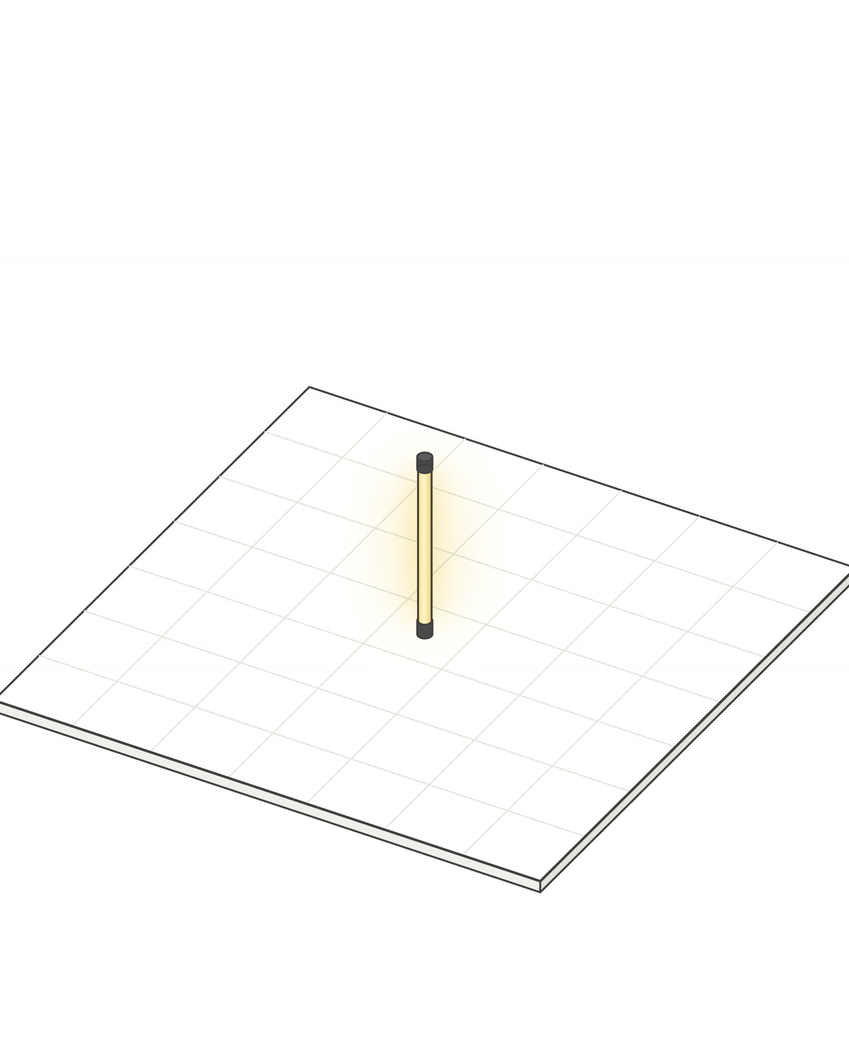
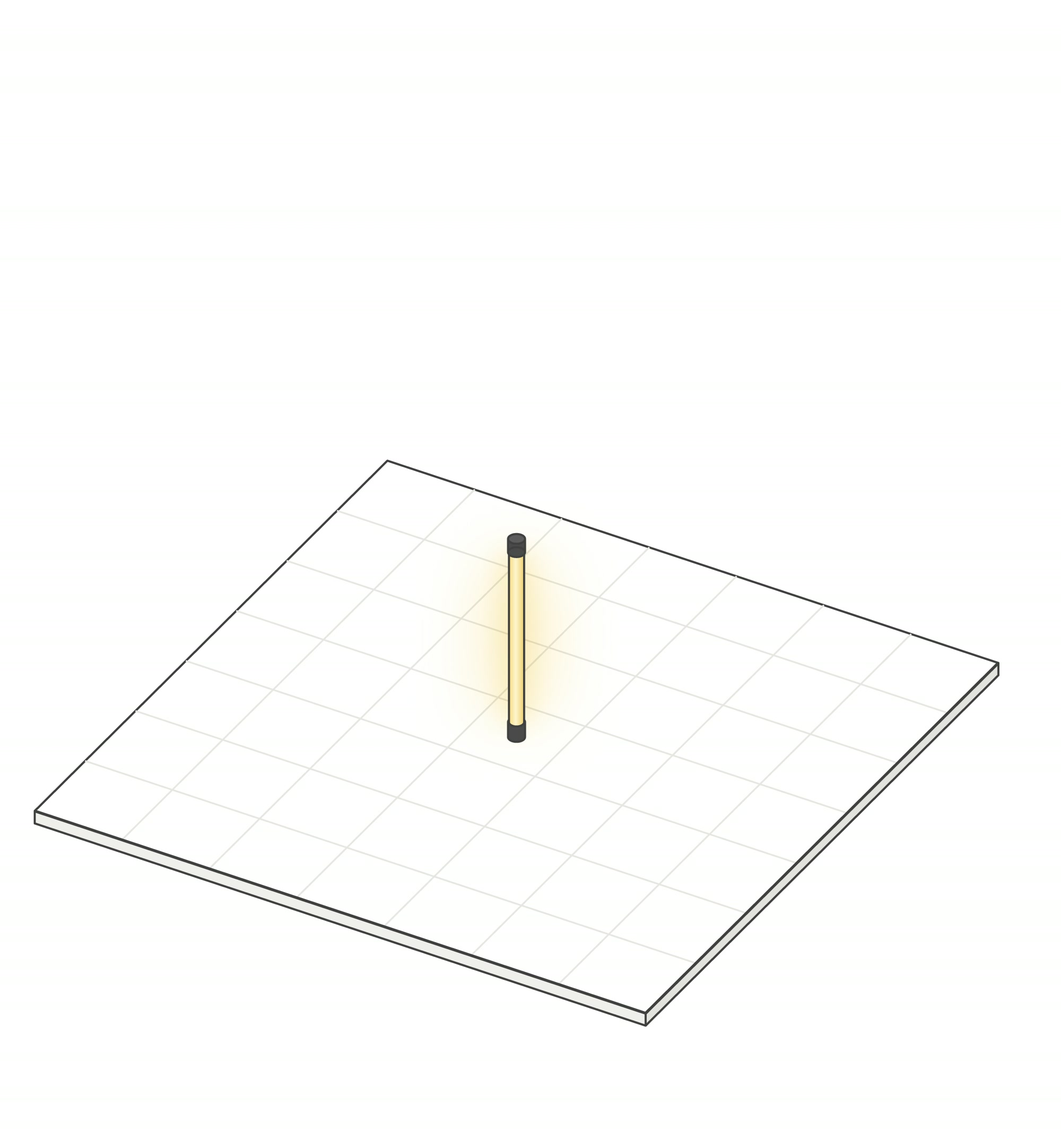
핀 #173–177 (SMART PIXEL): Point·Line·Volume 다섯 단계를 원본 03_frame.ai 벡터에서 1100ppi로 다시 뽑아 바닥판이 잘리지 않게(#173), Gathering Rule 장면 0.86배(#174), 빛 시뮬레이션의 졸라맨을 원본 일러스트 사람으로(#175)·폭 76%(#176), A Night 마지막 23:00 장면 삭제(#177)

diff --git a/assets/js/data.js b/assets/js/data.js
@@ -1610,7 +1610,7 @@ const SITE = {
         heading: "Point, Line, Volume", big: true, cols: 3, // 핀 #153: 세 장면을 한 줄에
         text: "One column becomes a gate frame, a gate, a corridor and a room — scroll through the steps. The same ten standard parts, about 2,300 pieces in all, are counted for the Daerim 2-dong pilot: 620 sockets, 682 columns, 656 lintels, 280 roof panels. Below, the three gestures drawn at the same scale on a 12 × 12 m plot.",
         // 핀 #140: 다섯 단계 시뮬레이션 + 세 장면을 따로 크게(원본 03_frame.ai, 글자·지시선 없이), 치수·설명은 사이트 글자
-        seq: {"kind":"frames","fade":true,"r":0.8085,"k":0.9,"steps":[{"src":"assets/img/smart-pixel/plv-1.jpg","t":"Column","s":"one pixel","d":"A socket set in the paving, one lit column, a head node on top — the smallest piece of the kit, on a 2.5 m grid.","k":[["In the pilot","682 columns"],["Sockets","620"]],"tags":[[3,5,"Point","","w"]]},{"src":"assets/img/smart-pixel/plv-2.jpg","t":"Gate frame","s":"+ lintel","d":"A lintel slides over two head nodes and two columns become a frame. 3.5 m across a gate, 2.5 m everywhere else.","k":[["Lintels","656"]],"tags":[[3,5,"Line","","w"]]},{"src":"assets/img/smart-pixel/plv-3.jpg","t":"Gate","s":"+ second tier","d":"A second tier stands on the head nodes: a portal 4.96 m high at the mouth of a deep lane.","k":[["Gates","11"],["Each","4 sockets · 8 columns · 6 lintels"]],"tags":[[3,5,"Line","","w"]]},{"src":"assets/img/smart-pixel/plv-4.jpg","t":"Corridor","s":"+ roof panels","d":"Two rows of frames carry roof panels over the stalls: 335 m along the market street. Seven lane lines (662 m) use the same frame without a roof.","k":[["Sockets · columns","270 · 270"],["Lintels · roof panels","268 · 268"]],"tags":[[3,5,"Line","","w"]]},{"src":"assets/img/smart-pixel/plv-5.jpg","t":"Room","s":"2 × 2 cells × 2 tiers","d":"Four cells on two tiers, with a grating floor, a mesh screen and guards: a small temporary building at a route node.","k":[["Rooms","3"],["Each","9 sockets · 15 columns · 19 lintels · 4 roof panels"],["Gratings · mesh · guards","2 · 2 · 4"]],"tags":[[3,5,"Volume","","w"]]}]},
+        seq: {"kind":"frames","fade":true,"r":0.9381,"k":0.9,"steps":[{"src":"assets/img/smart-pixel/plv-1.jpg","t":"Column","s":"one pixel","d":"A socket set in the paving, one lit column, a head node on top — the smallest piece of the kit, on a 2.5 m grid.","k":[["In the pilot","682 columns"],["Sockets","620"]],"tags":[[3,5,"Point","","w"]]},{"src":"assets/img/smart-pixel/plv-2.jpg","t":"Gate frame","s":"+ lintel","d":"A lintel slides over two head nodes and two columns become a frame. 3.5 m across a gate, 2.5 m everywhere else.","k":[["Lintels","656"]],"tags":[[3,5,"Line","","w"]]},{"src":"assets/img/smart-pixel/plv-3.jpg","t":"Gate","s":"+ second tier","d":"A second tier stands on the head nodes: a portal 4.96 m high at the mouth of a deep lane.","k":[["Gates","11"],["Each","4 sockets · 8 columns · 6 lintels"]],"tags":[[3,5,"Line","","w"]]},{"src":"assets/img/smart-pixel/plv-4.jpg","t":"Corridor","s":"+ roof panels","d":"Two rows of frames carry roof panels over the stalls: 335 m along the market street. Seven lane lines (662 m) use the same frame without a roof.","k":[["Sockets · columns","270 · 270"],["Lintels · roof panels","268 · 268"]],"tags":[[3,5,"Line","","w"]]},{"src":"assets/img/smart-pixel/plv-5.jpg","t":"Room","s":"2 × 2 cells × 2 tiers","d":"Four cells on two tiers, with a grating floor, a mesh screen and guards: a small temporary building at a route node.","k":[["Rooms","3"],["Each","9 sockets · 15 columns · 19 lintels · 4 roof panels"],["Gratings · mesh · guards","2 · 2 · 4"]],"tags":[[3,5,"Volume","","w"]]}]},
         images: [{"src":"assets/img/smart-pixel/gesture-gate.jpg","r":1.0787,"tags":[[57.5,70.6,"4.96 m","",""],[36.5,79.3,"3.5 m c/c","",""],[48.3,86.7,"street","","m"]],"notes":[["01","Gate","Two piers on the pavement, 0.75 m in from the lane walls, joined at 4.96 m. Keeps 3.3 m clear for deliveries and fire access; carries the lane name, a bench and an SOS button."]]},{"src":"assets/img/smart-pixel/gesture-corr.jpg","r":1.0787,"tags":[[97.3,78.7,"3.0 m open to the sky","r",""],[15.4,81.6,"2.5 m","",""],[99,83.8,"8.0 m between shopfronts","r",""],[36.5,84.4,"near-side shopfront, cut away","","m"]],"notes":[["02","Corridor","Two colonnades 5.5 m apart replace the patchwork awnings. Panels shade the stalls by day; after closing at 20:30 the lintels light the 8 m street, 3 m of it open to the sky."]]},{"src":"assets/img/smart-pixel/gesture-room.jpg","r":1.0787,"tags":[[61.7,70.3,"4.96 m","",""],[39.2,78,"5.0 m","",""],[44.4,88.2,"pocket park","","m"]],"notes":[["03","Room","2 × 2 cells on two tiers: a table below, a lit lantern above with the mesh screen. A temporary building (max. 3 years, renewable) — the neighbourhood can keep it, move it or return it."]]}]
       },
       {
@@ -1618,7 +1618,7 @@ const SITE = {
         text: "Light is switched on only by the people who are there. The number of people sets the size of the space — scroll from nobody to a group of four: the plan on the left, the same 16 pixels on the right, and below what is lit, who it needs and when it runs. Every mode keeps the light at residents' windows at or below 10 lx, the limit for residential zones; when everyone leaves, or after 23:00, it falls back to the default.",
         // 핀 #152: 평면(원본 05_program) + 16기둥 엑소노를 한 장면에, Four Modes 사양 표를 단계마다
         images: [],
-        seq: {"kind":"frames","fade":true,"below":true,"r":2.2143,"steps":[{"src":"assets/img/smart-pixel/rule-0.jpg","t":"00 Default","s":"CPTED state · nobody gathered","d":"Runs by itself from dusk to dawn: every pixel low, rising to 100 % as you pass. Used for the walk home from the station, a lit and watched corner at 2 am, and SOS — the cluster flashes.","k":[["People","none: runs by itself"],["Pixels lit","all, low"],["Output","20 % → 100 % as you pass"],["Colour","2700 K warm white"],["Sensors","radar in the column head"],["Alarm","flashes on an Ansimi app SOS"],["Runs","dusk to dawn"]],"tags":[[1.6,4,"Plan","","m"],[38.3,4,"Axonometric — 16 pixels, 2.5 m grid","","m"],[45.9,80.5,"2.5 m","c",""]]},{"src":"assets/img/smart-pixel/rule-1.jpg","t":"01 Column","s":"point · 1 person","d":"One person checks in and the pixel next to them lights up. For waiting for someone, a short phone-free talk, walking the dog.","k":[["People","1, checked in on site"],["Pixels lit","1, next to you"],["Output","100 %"],["Colour","2700–4000 K, user set"],["Check-in","Bluetooth, within 3 m"],["Hold","while you stay, 10 min after"],["Runs","18:00–24:00"]],"tags":[[1.6,4,"Plan","","m"],[38.3,4,"Axonometric — 16 pixels, 2.5 m grid","","m"]]},{"src":"assets/img/smart-pixel/rule-2.jpg","t":"02 Wall","s":"line · 2 people","d":"Two neighbouring pixels pull a mesh screen between them. A neighbourhood film night, kids' drawings on the screen, a quiet backdrop for a stall.","k":[["People","2+, at neighbouring pixels"],["Pixels lit","2 + mesh screen"],["Screen","2.35 × 1.90 m, pulled by hand"],["Image","edge-lit, or projector in head"],["Set-up","unroll, clip to the next column"],["Sound","none"],["Runs","18:00–22:00"]],"tags":[[1.6,4,"Plan","","m"],[38.3,4,"Axonometric — 16 pixels, 2.5 m grid","","m"]]},{"src":"assets/img/smart-pixel/rule-3.jpg","t":"03 Space","s":"volume · 4 people","d":"Four corners of a cell light up under a string-light canopy, with a table and stools from the furniture box. A neighbour dinner, a study circle, the night-market table.","k":[["People","4+, one booking in the app"],["Pixels lit","4 corners of a cell"],["Canopy","2.5 × 2.5 m string lights, H 2.4 m"],["Furniture","box: 1 table, 4 stools"],["Set-up","15 min, by the group"],["Return","pack the box to sign out"],["Runs","18:00–22:00, Fri–Sat to 23:00"]],"tags":[[1.6,4,"Plan","","m"],[38.3,4,"Axonometric — 16 pixels, 2.5 m grid","","m"]]}]}
+        seq: {"kind":"frames","fade":true,"below":true,"k":0.86,"r":2.2143,"steps":[{"src":"assets/img/smart-pixel/rule-0.jpg","t":"00 Default","s":"CPTED state · nobody gathered","d":"Runs by itself from dusk to dawn: every pixel low, rising to 100 % as you pass. Used for the walk home from the station, a lit and watched corner at 2 am, and SOS — the cluster flashes.","k":[["People","none: runs by itself"],["Pixels lit","all, low"],["Output","20 % → 100 % as you pass"],["Colour","2700 K warm white"],["Sensors","radar in the column head"],["Alarm","flashes on an Ansimi app SOS"],["Runs","dusk to dawn"]],"tags":[[1.6,4,"Plan","","m"],[38.3,4,"Axonometric — 16 pixels, 2.5 m grid","","m"],[45.9,80.5,"2.5 m","c",""]]},{"src":"assets/img/smart-pixel/rule-1.jpg","t":"01 Column","s":"point · 1 person","d":"One person checks in and the pixel next to them lights up. For waiting for someone, a short phone-free talk, walking the dog.","k":[["People","1, checked in on site"],["Pixels lit","1, next to you"],["Output","100 %"],["Colour","2700–4000 K, user set"],["Check-in","Bluetooth, within 3 m"],["Hold","while you stay, 10 min after"],["Runs","18:00–24:00"]],"tags":[[1.6,4,"Plan","","m"],[38.3,4,"Axonometric — 16 pixels, 2.5 m grid","","m"]]},{"src":"assets/img/smart-pixel/rule-2.jpg","t":"02 Wall","s":"line · 2 people","d":"Two neighbouring pixels pull a mesh screen between them. A neighbourhood film night, kids' drawings on the screen, a quiet backdrop for a stall.","k":[["People","2+, at neighbouring pixels"],["Pixels lit","2 + mesh screen"],["Screen","2.35 × 1.90 m, pulled by hand"],["Image","edge-lit, or projector in head"],["Set-up","unroll, clip to the next column"],["Sound","none"],["Runs","18:00–22:00"]],"tags":[[1.6,4,"Plan","","m"],[38.3,4,"Axonometric — 16 pixels, 2.5 m grid","","m"]]},{"src":"assets/img/smart-pixel/rule-3.jpg","t":"03 Space","s":"volume · 4 people","d":"Four corners of a cell light up under a string-light canopy, with a table and stools from the furniture box. A neighbour dinner, a study circle, the night-market table.","k":[["People","4+, one booking in the app"],["Pixels lit","4 corners of a cell"],["Canopy","2.5 × 2.5 m string lights, H 2.4 m"],["Furniture","box: 1 table, 4 stools"],["Set-up","15 min, by the group"],["Return","pack the box to sign out"],["Runs","18:00–22:00, Fri–Sat to 23:00"]],"tags":[[1.6,4,"Plan","","m"],[38.3,4,"Axonometric — 16 pixels, 2.5 m grid","","m"]]}]}
       },
       {
         heading: "Under the Corridor at 21:00", big: true,
@@ -1656,7 +1656,7 @@ const SITE = {
         stack: true,
         // 핀 #172: 원본 12_app.ai에서 글자 없이 뽑고 글은 모두 사이트 글자로, 네 가지 쓰임은 단계 장면 + 빛 시뮬레이션(church.js pixel)
         seq: {"kind":"frames","fade":true,"below":true,"r":2.3471,"steps":[{"src":"assets/img/smart-pixel/app-way-1.jpg","t":"Walk past","s":"No phone, no sign-in. The radar sees a pass, not a face.","d":"The radar in each head watches the lane, 6 m each way, ±60°. The pixel you pass goes to 100 %; the next ones each way go to 60 %. The bright patch walks with you, one pixel ahead. 40 s after the last pass it falls back to 20 %, warm 2700 K.","k":[["Trigger","movement in the radar field"],["Holds","40 s after the last pass"],["Hours","dusk to dawn"]],"tags":[[2.38,11.94,"22:10","",""],[4.91,29.36,"22:10","","b"],[8.26,36.74,"Friday","",""],[9.9,55.89,"no app, no alert\nthe phone stays\nin the pocket","c","nl"],[32.59,34.32,"20 %","",""],[47.11,34.32,"60 %","",""],[61.32,34.32,"100 %","",""],[76.16,34.32,"60 %","",""],[90.69,34.32,"20 %","",""],[82.45,57.15,"radar, 6 m","",""]]},{"src":"assets/img/smart-pixel/app-way-2.jpg","t":"Check in","s":"One tap in the app, within 3 m: for a wait, a slow walk, a dog.","d":"Open the app beside a pixel; Bluetooth finds its head within 3 m. Tap Stay lit: the pixel next to you goes to 100 %, only that one. Pick the colour between 2700 and 4000 K, if you like. It holds while the phone stays within 3 m, and 10 min after.","k":[["Trigger","a tap in the app, nothing to sign"],["Holds","while you stay, 10 min after"],["Hours","18:00 – 24:00"]],"tags":[[2.38,11.94,"22:10","",""],[1.58,17.83,"Pixel","","w"],[12.43,18.18,"anonymous","",""],[1.58,28.2,"G1-07 · Digital-ro 54-gil\n2.1 m away, Bluetooth","","nl"],[7.85,52.77,"Stay lit","",""],[1.58,65.25,"Colour","",""],[1.58,73.97,"2700 K","",""],[19.6,73.97,"4000 K","r",""],[1.58,79.5,"Hold","",""],[6.76,79.55,"while I'm here + 10 min","",""],[6.81,85.81,"Check out","",""],[36.55,34.32,"20 %","",""],[61.32,34.32,"100 %","",""],[86.73,34.32,"20 %","",""],[83.63,44.92,"Bluetooth, 3 m","",""]]},{"src":"assets/img/smart-pixel/app-way-3.jpg","t":"Gather","s":"Two checked in side by side open the wall; four with a booking, the room.","d":"Wall: two people checked in at neighbouring pixels pull the 2.35 × 1.90 m screen. Room: one booking for four or more lights the four corners of a cell and the canopy. The group opens the box — 1 table, 4 stools — and sets up in about 15 min. Packing the box signs the room out; from 23:00 only the walk-past light runs.","k":[["Trigger","2 check-ins, or 1 booking"],["Holds","the booking; packing ends it"],["Hours","18:00 – 22:00, Fri–Sat to 23:00"]],"tags":[[2.38,11.94,"19:00","",""],[1.58,17.83,"Book","","w"],[11.04,18.18,"R2 crossroads","",""],[4.51,27.98,"Wall","",""],[12.32,27.98,"Room","",""],[2.43,32.17,"2+ checked in","",""],[11.39,32.17,"4+, booked","",""],[1.58,41.07,"Cell","",""],[10.83,41.07,"B, 2.5 × 2.5 m","",""],[1.58,47.27,"Day","",""],[14.95,47.27,"Friday","",""],[1.58,53.47,"Time","",""],[11.25,53.47,"19:00 – 21:00","",""],[1.58,59.67,"People","",""],[15.37,59.67,"− 4 +","",""],[1.58,65.87,"Box","",""],[10,65.87,"1 table, 4 stools","",""],[1.58,75.1,"18:00 – 22:00, Fri–Sat to 23:00\npack the box to sign out","","nl"],[8.36,85.81,"Book","","i"],[32.36,34.32,"wall","",""],[48.86,34.32,"wall","",""],[64.95,34.32,"room","",""],[81.46,34.32,"room","",""],[86.36,66.94,"box","",""]]},{"src":"assets/img/smart-pixel/app-way-4.jpg","t":"Call for help","s":"One press on the gate sign, or SOS in Seoul's Ansimi app.","d":"Press SOS on the gate sign (under a flap), or hold SOS in the Ansimi app. The gate and its cluster flash once a second; the lane line goes to 100 %. A call goes to 112 and to the Daerim 2-dong police box, with the gate number. The flash stops when the police box clears it on site; then 20 % again.","k":[["Trigger","the sign button, or the Ansimi app"],["Reaches","112 and the police box"],["Hours","day and night; flash after dusk"]],"tags":[[2.38,11.94,"22:40","",""],[1.58,17.83,"Ansimi","","w"],[15.4,18.18,"Seoul","",""],[7.57,39.73,"SOS","","b"],[7.8,56.57,"hold 3 s","",""],[3.7,75.17,"Gate G1 flashing\nLane line at 100 %\nCall to 112\nPolice box alerted\nCall back to this phone","","nl"],[70.14,28.18,"a window opens","",""],[35.48,34.32,"gate","",""],[51.99,34.32,"gate","",""],[72.5,34.32,"lane","",""],[39.93,44.42,"G1 54-GIL","",""]]}]},
-        images: [{"sim":"pixel","caption":"The four ways, live — the lane lights as each one runs; below, the light at one pixel over time. Pick a way, or let it cycle.","r":2.8},{"src":"assets/img/smart-pixel/app-network.jpg","caption":"What talks to what — the phone only asks; the pixel answers in light. No camera, no microphone, no account.","r":4.4057,"w":"100%","tags":[[75.91,6.31,"Seoul Ansimi app","",""],[75.91,10.74,"SOS from anywhere","",""],[10.47,18.85,"Bluetooth LE, 3 m\ntoken, hold, colour","","nl"],[29.66,18.85,"mesh, 2.5 m hops\nlevels, SOS, counts","","nl"],[51.56,18.85,"mesh\ngateway","c","nl"],[91.81,19.84,"112","",""],[66.42,21.19,"position → nearest gate","",""],[88.35,23.03,"112","","w"],[91.81,24.57,"police emergency line","",""],[66.35,30.53,"LTE\nSOS, counts, faults","c","nl"],[82.88,43.44,"call, alert\ngate no., map pin","c","nl"],[91.81,48.11,"police box","",""],[91.81,54.84,"Daerim 2-dong\ncalls back, comes","","nl"],[3.9,57.34,"your phone","",""],[19.45,57.34,"pixel head","",""],[30.73,57.34,"next pixel","",""],[41.88,57.34,"gate pixel","",""],[56.38,57.34,"sub-board","",""],[71.44,57.34,"gu office server","",""],[2.87,62.07,"the app, no account","",""],[21.35,64.06,"radar, Bluetooth,\nmesh node","c","nl"],[30.63,62.07,"passes it on","",""],[41.06,62.07,"sign, SOS button","",""],[58.33,64.06,"on the street-lamp feeder:\nLTE, astro timer, RCD","c","nl"],[74.37,64.06,"Yeongdeungpo-gu:\nbookings, faults, SOS","c","nl"],[39.23,82.66,"230 V feeder under the paving, about 58 columns a circuit","",""],[4.19,94.8,"Bluetooth","",""],[17.44,94.8,"mesh radio","",""],[30.7,94.8,"LTE, mobile network","",""],[43.95,94.8,"power","",""]]},{"src":"assets/img/smart-pixel/app-sos.jpg","caption":"SOS, second by second — from the gate sign; an app SOS joins at the gu server. Design targets for the pilot.","r":3.7069,"w":"100%","tags":[[6.02,8.47,"resident","",""],[20.19,8.47,"gate pixel","",""],[33.5,8.47,"cluster, lane line","",""],[48.88,8.47,"sub-board","",""],[63.46,8.47,"gu server","",""],[78.98,8.47,"112","",""],[92.18,8.47,"police box","",""],[12.97,15.76,"press SOS","",""],[1.12,18.34,"0 s","",""],[1.12,26.88,"0.1 s","",""],[24.47,26.88,"flash, once a second","",""],[23.39,32.83,"mesh: cluster flashes, lane to 100 %","",""],[1.12,35.41,"0.5 s","",""],[22.93,41.36,"mesh: SOS, gate G1","",""],[1.12,43.95,"1 s","",""],[54.74,49.9,"LTE: SOS, G1, 22:40","",""],[1.12,52.48,"2 s","",""],[67.01,58.43,"call with the gate no. and map pin","",""],[1.12,61.02,"3 s","",""],[66.19,66.97,"alert on the duty screen","",""],[1.12,69.55,"3 s","",""],[78.87,75.5,"call back (to the phone, if sent from the app)","",""],[1.12,78.09,"~1 min","",""],[82.29,84.03,"officer clears the SOS on the sign","",""],[1.12,86.62,"on site","",""],[25.59,92.57,"back to 20 % standby","",""],[1.12,95.16,"+40 s","",""]]},{"src":"assets/img/smart-pixel/app-screens.jpg","caption":"The rest of the app — six more screens behind the four above, one tap deep, nothing to sign in to","r":3.1555,"w":"100%","tags":[[2.46,14.45,"21:58","",""],[20,14.45,"22:00","",""],[37.54,14.45,"17:40","",""],[55.07,14.45,"20:50","",""],[72.61,14.45,"22:40","",""],[90.14,14.45,"22:41","",""],[2.03,18.8,"Smart Pixel","","w"],[19.57,18.8,"Nearby","","w"],[37.1,18.8,"Booked","","w"],[72.17,18.8,"Report","","w"],[89.71,18.8,"This phone","","w"],[8.54,19.05,"first open","",""],[26.71,19.05,"G1 lane","",""],[42.29,19.05,"R2 crossroads","",""],[79.69,19.05,"G1-07","",""],[96.1,19.05,"no sign-in","",""],[56.24,26.39,"20:50","","b"],[37.1,24.91,"Friday 19:00 – 21:00","",""],[72.17,24.91,"What is wrong?","",""],[89.71,25.43,"Token","",""],[93.8,25.43,"new every 15 min","",""],[37.1,28.17,"cell B · 4 people · 1 box","",""],[89.71,30,"On the pixel","",""],[95.22,30,"nothing kept","",""],[73.64,30.79,"Dark","",""],[77.72,30.79,"Flickering","",""],[58.3,31.83,"Friday","",""],[89.71,34.57,"Check-ins","",""],[95.24,34.57,"hourly totals","",""],[72.55,37.65,"Lens broken","",""],[78.32,37.65,"Other","",""],[6.59,41.66,"Bluetooth finds the light\nnext to you. No account,\nno name, no location history.","c","nl"],[89.71,39.15,"Bookings","",""],[93.44,39.15,"deleted at 30 days","",""],[44.43,39.79,"B","",""],[14.56,40.03,"allow","",""],[32.13,40.03,"book","",""],[49.59,40.03,"18:45","",""],[67.11,40.03,"menu","",""],[84.65,40.03,"menu","",""],[56.02,40.61,"SMART PIXEL · now","",""],[55,44.15,"R2: 10 minutes left","",""],[89.71,46.46,"Bluetooth check-in","",""],[24.18,46.52,"you · 3 m","",""],[55,48.45,"Pack the box to sign out.\nThe room dims at 21:00.","","nl"],[2.9,52.85,"walking past needs no app\nSOS works without it too\n한국어","","nl"],[73.85,50.61,"add a photo, optional","",""],[89.71,51.49,"Booking reminders","",""],[37.1,51.52,"Box code, live from 18:45","",""],[19.57,53.32,"G1-07","",""],[26.21,53.32,"2.1 m · lit","",""],[4.64,55.87,"·","",""],[5.13,55.72,"中文","",""],[6.29,55.87,"· English","",""],[98.53,56.37,"›","",""],[37.77,56.71,"4","","w"],[40.27,56.71,"1","","w"],[42.59,56.71,"7","","w"],[44.97,56.71,"2","","w"],[72.17,58.84,"The pixel has reported itself\nalready; this tells the gu what\nyou saw. Or call 120, Dasan.","","nl"],[89.71,56.52,"Language:","",""],[92.95,56.36,"한국어","",""],[19.57,57.9,"G1-08","",""],[27.06,57.9,"4.6 m","",""],[56.02,57.99,"SMART PIXEL · 18:45","",""],[55,61.52,"R2 is ready","",""],[3.7,62.09,"Allow while using","","i"],[19.57,62.47,"R2 room","",""],[23.77,62.47,"38 m · free 19:00","",""],[37.1,62.47,"Set-up","",""],[40.92,62.47,"15 min, from 18:45","",""],[55,65.82,"Box code 4172. The four\ncolumns light in turn.","","nl"],[5.24,68.49,"Not now","",""],[22.16,68.95,"Open G1-07","","i"],[39.13,68.95,"Cancel booking","",""],[75.88,68.95,"Send","","i"],[91.05,68.95,"Delete my bookings","",""],[2.9,82.87,"First open","",""],[20.43,82.87,"Nearby","",""],[37.97,82.87,"Booked","",""],[55.51,82.87,"Reminders","",""],[73.04,82.87,"Report","",""],[90.58,82.87,"This phone","",""],[1.6,82.85,"a","",""],[19.12,82.85,"b","",""],[36.68,82.85,"c","",""],[54.19,82.85,"d","",""],[71.74,82.85,"e","",""],[89.35,82.85,"f","",""],[1.16,90.76,"Asks for Bluetooth only. No\naccount, no name, no location\nhistory.","","nl"],[18.7,90.76,"The lane as it is: the pixels\nwithin 3 m are lit, the room\nup the lane is free.","","nl"],[36.23,90.76,"The cell, the hours and a\nfour-digit code for the box,\nlive 15 min before.","","nl"],[53.77,90.76,"On the lock screen: the room\nis ready; ten minutes left;\nnothing else.","","nl"],[71.3,90.76,"One tap: what is wrong. The\npixel has already told the gu\nit is dark.","","nl"],[88.84,89.16,"What is shared, for how long,\nand a button that deletes it.","","nl"]]},{"src":"assets/img/smart-pixel/app-words.jpg","caption":"The light's own words — how a pixel answers without a screen; level over time, each strip to its own scale","r":1.506,"w":"62%","tags":[[55.57,16.33,"20 → 100 % in 0.5 s; back to 20 % 40 s after the last pass","",""],[1.59,17.63,"Someone passes","",""],[55.57,26.21,"one slow breath, 1.5 s: the pixel knows it is you","",""],[1.59,27.51,"Check-in heard","",""],[55.57,36.09,"the cell's four columns light in turn, 1 s apart","",""],[1.59,37.4,"Room ready","",""],[55.57,45.97,"two slow breaths on the room's columns","",""],[1.59,47.28,"Ten minutes left","",""],[55.57,55.85,"23:00: down to 20 % over 60 s; rooms close","",""],[1.59,57.16,"Quiet hours","",""],[55.57,67.2,"the gate flashes once a second until the police box clears it","",""],[1.59,67.04,"SOS","",""],[55.57,77.08,"5 % and steady, never a flash, so it is never read as SOS; it reports itself","",""],[1.59,76.92,"Fault","",""],[55.57,85.49,"off; radar and radio listen on 0.5 W","",""],[1.59,86.8,"Day","",""],[1.59,95.37,"Dashed: the 20 % night level. All signals are warm white; nothing is coloured.","","m"],[1.59,8.74,"Signal","","m"],[23.96,8.74,"Level","","m"],[55.57,8.74,"What it means","","m"]]}]
+        images: [{"sim":"pixel","w":"76%","caption":"The four ways, live — the lane lights as each one runs; below, the light at one pixel over time. Pick a way, or let it cycle.","r":2.8},{"src":"assets/img/smart-pixel/app-network.jpg","caption":"What talks to what — the phone only asks; the pixel answers in light. No camera, no microphone, no account.","r":4.4057,"w":"100%","tags":[[75.91,6.31,"Seoul Ansimi app","",""],[75.91,10.74,"SOS from anywhere","",""],[10.47,18.85,"Bluetooth LE, 3 m\ntoken, hold, colour","","nl"],[29.66,18.85,"mesh, 2.5 m hops\nlevels, SOS, counts","","nl"],[51.56,18.85,"mesh\ngateway","c","nl"],[91.81,19.84,"112","",""],[66.42,21.19,"position → nearest gate","",""],[88.35,23.03,"112","","w"],[91.81,24.57,"police emergency line","",""],[66.35,30.53,"LTE\nSOS, counts, faults","c","nl"],[82.88,43.44,"call, alert\ngate no., map pin","c","nl"],[91.81,48.11,"police box","",""],[91.81,54.84,"Daerim 2-dong\ncalls back, comes","","nl"],[3.9,57.34,"your phone","",""],[19.45,57.34,"pixel head","",""],[30.73,57.34,"next pixel","",""],[41.88,57.34,"gate pixel","",""],[56.38,57.34,"sub-board","",""],[71.44,57.34,"gu office server","",""],[2.87,62.07,"the app, no account","",""],[21.35,64.06,"radar, Bluetooth,\nmesh node","c","nl"],[30.63,62.07,"passes it on","",""],[41.06,62.07,"sign, SOS button","",""],[58.33,64.06,"on the street-lamp feeder:\nLTE, astro timer, RCD","c","nl"],[74.37,64.06,"Yeongdeungpo-gu:\nbookings, faults, SOS","c","nl"],[39.23,82.66,"230 V feeder under the paving, about 58 columns a circuit","",""],[4.19,94.8,"Bluetooth","",""],[17.44,94.8,"mesh radio","",""],[30.7,94.8,"LTE, mobile network","",""],[43.95,94.8,"power","",""]]},{"src":"assets/img/smart-pixel/app-sos.jpg","caption":"SOS, second by second — from the gate sign; an app SOS joins at the gu server. Design targets for the pilot.","r":3.7069,"w":"100%","tags":[[6.02,8.47,"resident","",""],[20.19,8.47,"gate pixel","",""],[33.5,8.47,"cluster, lane line","",""],[48.88,8.47,"sub-board","",""],[63.46,8.47,"gu server","",""],[78.98,8.47,"112","",""],[92.18,8.47,"police box","",""],[12.97,15.76,"press SOS","",""],[1.12,18.34,"0 s","",""],[1.12,26.88,"0.1 s","",""],[24.47,26.88,"flash, once a second","",""],[23.39,32.83,"mesh: cluster flashes, lane to 100 %","",""],[1.12,35.41,"0.5 s","",""],[22.93,41.36,"mesh: SOS, gate G1","",""],[1.12,43.95,"1 s","",""],[54.74,49.9,"LTE: SOS, G1, 22:40","",""],[1.12,52.48,"2 s","",""],[67.01,58.43,"call with the gate no. and map pin","",""],[1.12,61.02,"3 s","",""],[66.19,66.97,"alert on the duty screen","",""],[1.12,69.55,"3 s","",""],[78.87,75.5,"call back (to the phone, if sent from the app)","",""],[1.12,78.09,"~1 min","",""],[82.29,84.03,"officer clears the SOS on the sign","",""],[1.12,86.62,"on site","",""],[25.59,92.57,"back to 20 % standby","",""],[1.12,95.16,"+40 s","",""]]},{"src":"assets/img/smart-pixel/app-screens.jpg","caption":"The rest of the app — six more screens behind the four above, one tap deep, nothing to sign in to","r":3.1555,"w":"100%","tags":[[2.46,14.45,"21:58","",""],[20,14.45,"22:00","",""],[37.54,14.45,"17:40","",""],[55.07,14.45,"20:50","",""],[72.61,14.45,"22:40","",""],[90.14,14.45,"22:41","",""],[2.03,18.8,"Smart Pixel","","w"],[19.57,18.8,"Nearby","","w"],[37.1,18.8,"Booked","","w"],[72.17,18.8,"Report","","w"],[89.71,18.8,"This phone","","w"],[8.54,19.05,"first open","",""],[26.71,19.05,"G1 lane","",""],[42.29,19.05,"R2 crossroads","",""],[79.69,19.05,"G1-07","",""],[96.1,19.05,"no sign-in","",""],[56.24,26.39,"20:50","","b"],[37.1,24.91,"Friday 19:00 – 21:00","",""],[72.17,24.91,"What is wrong?","",""],[89.71,25.43,"Token","",""],[93.8,25.43,"new every 15 min","",""],[37.1,28.17,"cell B · 4 people · 1 box","",""],[89.71,30,"On the pixel","",""],[95.22,30,"nothing kept","",""],[73.64,30.79,"Dark","",""],[77.72,30.79,"Flickering","",""],[58.3,31.83,"Friday","",""],[89.71,34.57,"Check-ins","",""],[95.24,34.57,"hourly totals","",""],[72.55,37.65,"Lens broken","",""],[78.32,37.65,"Other","",""],[6.59,41.66,"Bluetooth finds the light\nnext to you. No account,\nno name, no location history.","c","nl"],[89.71,39.15,"Bookings","",""],[93.44,39.15,"deleted at 30 days","",""],[44.43,39.79,"B","",""],[14.56,40.03,"allow","",""],[32.13,40.03,"book","",""],[49.59,40.03,"18:45","",""],[67.11,40.03,"menu","",""],[84.65,40.03,"menu","",""],[56.02,40.61,"SMART PIXEL · now","",""],[55,44.15,"R2: 10 minutes left","",""],[89.71,46.46,"Bluetooth check-in","",""],[24.18,46.52,"you · 3 m","",""],[55,48.45,"Pack the box to sign out.\nThe room dims at 21:00.","","nl"],[2.9,52.85,"walking past needs no app\nSOS works without it too\n한국어","","nl"],[73.85,50.61,"add a photo, optional","",""],[89.71,51.49,"Booking reminders","",""],[37.1,51.52,"Box code, live from 18:45","",""],[19.57,53.32,"G1-07","",""],[26.21,53.32,"2.1 m · lit","",""],[4.64,55.87,"·","",""],[5.13,55.72,"中文","",""],[6.29,55.87,"· English","",""],[98.53,56.37,"›","",""],[37.77,56.71,"4","","w"],[40.27,56.71,"1","","w"],[42.59,56.71,"7","","w"],[44.97,56.71,"2","","w"],[72.17,58.84,"The pixel has reported itself\nalready; this tells the gu what\nyou saw. Or call 120, Dasan.","","nl"],[89.71,56.52,"Language:","",""],[92.95,56.36,"한국어","",""],[19.57,57.9,"G1-08","",""],[27.06,57.9,"4.6 m","",""],[56.02,57.99,"SMART PIXEL · 18:45","",""],[55,61.52,"R2 is ready","",""],[3.7,62.09,"Allow while using","","i"],[19.57,62.47,"R2 room","",""],[23.77,62.47,"38 m · free 19:00","",""],[37.1,62.47,"Set-up","",""],[40.92,62.47,"15 min, from 18:45","",""],[55,65.82,"Box code 4172. The four\ncolumns light in turn.","","nl"],[5.24,68.49,"Not now","",""],[22.16,68.95,"Open G1-07","","i"],[39.13,68.95,"Cancel booking","",""],[75.88,68.95,"Send","","i"],[91.05,68.95,"Delete my bookings","",""],[2.9,82.87,"First open","",""],[20.43,82.87,"Nearby","",""],[37.97,82.87,"Booked","",""],[55.51,82.87,"Reminders","",""],[73.04,82.87,"Report","",""],[90.58,82.87,"This phone","",""],[1.6,82.85,"a","",""],[19.12,82.85,"b","",""],[36.68,82.85,"c","",""],[54.19,82.85,"d","",""],[71.74,82.85,"e","",""],[89.35,82.85,"f","",""],[1.16,90.76,"Asks for Bluetooth only. No\naccount, no name, no location\nhistory.","","nl"],[18.7,90.76,"The lane as it is: the pixels\nwithin 3 m are lit, the room\nup the lane is free.","","nl"],[36.23,90.76,"The cell, the hours and a\nfour-digit code for the box,\nlive 15 min before.","","nl"],[53.77,90.76,"On the lock screen: the room\nis ready; ten minutes left;\nnothing else.","","nl"],[71.3,90.76,"One tap: what is wrong. The\npixel has already told the gu\nit is dark.","","nl"],[88.84,89.16,"What is shared, for how long,\nand a button that deletes it.","","nl"]]},{"src":"assets/img/smart-pixel/app-words.jpg","caption":"The light's own words — how a pixel answers without a screen; level over time, each strip to its own scale","r":1.506,"w":"62%","tags":[[55.57,16.33,"20 → 100 % in 0.5 s; back to 20 % 40 s after the last pass","",""],[1.59,17.63,"Someone passes","",""],[55.57,26.21,"one slow breath, 1.5 s: the pixel knows it is you","",""],[1.59,27.51,"Check-in heard","",""],[55.57,36.09,"the cell's four columns light in turn, 1 s apart","",""],[1.59,37.4,"Room ready","",""],[55.57,45.97,"two slow breaths on the room's columns","",""],[1.59,47.28,"Ten minutes left","",""],[55.57,55.85,"23:00: down to 20 % over 60 s; rooms close","",""],[1.59,57.16,"Quiet hours","",""],[55.57,67.2,"the gate flashes once a second until the police box clears it","",""],[1.59,67.04,"SOS","",""],[55.57,77.08,"5 % and steady, never a flash, so it is never read as SOS; it reports itself","",""],[1.59,76.92,"Fault","",""],[55.57,85.49,"off; radar and radio listen on 0.5 W","",""],[1.59,86.8,"Day","",""],[1.59,95.37,"Dashed: the 20 % night level. All signals are warm white; nothing is coloured.","","m"],[1.59,8.74,"Signal","","m"],[23.96,8.74,"Level","","m"],[55.57,8.74,"What it means","","m"]]}]
       },
       {
         heading: "Two Sessions, Three Years, One Vote",
@@ -1673,7 +1673,7 @@ const SITE = {
         ]
       },
       {
-        heading: "A Night in Daerim, 18:40 to 23:00", big: true,
+        heading: "A Night in Daerim, 18:40 to 22:40", big: true, // 핀 #177: 마지막 23:00 장면 삭제
         text: "One walk home on a June weekday, through the pieces of the frame. Each scene is the same 12 × 12 m plot, the same angle, the same scale.",
         images: [],
         seq: {
@@ -1711,12 +1711,6 @@ const SITE = {
               t: "22:40",
               s: "SOS at the gate",
               d: "“One press on the sign: the gate flashed, a neighbour opened the window, the police box called back.”"
-            },
-            {
-              src: "assets/img/smart-pixel/night-6.jpg",
-              t: "23:00",
-              s: "Front door",
-              d: "“Home. Behind me the gate goes back to dim. The lane is quiet, not dark.” Back to 20 % standby 40 s after the last pass."
             }
           ]
         }

diff --git a/assets/js/church.js b/assets/js/church.js
@@ -810,7 +810,10 @@
     au.addEventListener("click", () => { auto = !auto; start = null; mark(); st.kick(); });
     mark();
     const RUN = 11, REST = 1.6; // 한 모드 11초 + 쉼 1.6초
-    const person = (g, x, y, s, c) => { g.strokeStyle = c; g.lineWidth = 1.2; g.beginPath(); g.arc(x, y - s * 0.92, s * 0.1, 0, 7); g.moveTo(x, y - s * 0.8); g.lineTo(x, y - s * 0.42); g.moveTo(x - s * 0.13, y - s * 0.68); g.lineTo(x, y - s * 0.75); g.lineTo(x + s * 0.13, y - s * 0.6); g.moveTo(x - s * 0.12, y); g.lineTo(x, y - s * 0.42); g.lineTo(x + s * 0.12, y); g.stroke(); };
+    // 사람은 원본 장면(12_app.ai)에서 오린 그림: h = 기둥 높이 대비, a = 가로/세로
+    const PP = { walk: [0.682, 0.449], dog: [0.712, 1.354], phone: [0.674, 0.574], wall: [0.712, 0.875], table: [0.555, 1.455], sos: [0.682, 1.072] }, IM = {};
+    Object.keys(PP).forEach((k) => { const im = new Image(); im.onload = () => st && st.kick(); im.src = `assets/img/smart-pixel/ppl-${k}.png`; IM[k] = im; });
+    const sprite = (g, k, cx, ground, colH, flip) => { const im = IM[k]; if (!im.complete || !im.naturalWidth) return; const h = PP[k][0] * colH, w = h * PP[k][1]; g.save(); if (flip) { g.translate(cx, 0); g.scale(-1, 1); cx = 0; } g.drawImage(im, cx - w / 2, ground - h, w, h); g.restore(); };
     const st = stage(el, (g, W, H, tt) => {
       if (start === null) start = tt;
       let e = tt - start;
@@ -823,15 +826,16 @@
       // 빛 원뿔 → 기둥 → 보 → 땅
       Ls.forEach((L, i) => { const x = xs(i), w = laneW * 0.1; g.fillStyle = warm(0.06 + 0.34 * (L - 0.2) / 0.8 + 0.04); g.beginPath(); g.moveTo(x, head + 4); g.lineTo(x - w, ground); g.lineTo(x + w, ground); g.closePath(); g.fill(); });
       if (m.wall) { const [a, b] = m.wall, on = Ls[a] > 0.9 && Ls[b] > 0.9; g.fillStyle = warm(on ? 0.35 : 0); g.fillRect(xs(a) + 4, head + colH * 0.12, xs(b) - xs(a) - 8, colH * 0.8); if (on) { g.strokeStyle = C.mix(0.25); g.lineWidth = 0.6; for (let q = xs(a) + 12; q < xs(b) - 6; q += 8) { g.beginPath(); g.moveTo(q, head + colH * 0.12); g.lineTo(q, head + colH * 0.92); g.stroke(); } } }
-      if (m.room) { const [a, b] = m.room, on = Ls[a] > 0.9; if (on) { g.strokeStyle = C.mix(0.5); g.lineWidth = 0.8; g.beginPath(); g.moveTo(xs(a), head + 6); g.quadraticCurveTo((xs(a) + xs(b)) / 2, head + colH * 0.22, xs(b), head + 6); g.stroke(); for (let q = 1; q < 8; q++) { const u = q / 8, bx = xs(a) + (xs(b) - xs(a)) * u, by = head + 6 + (colH * 0.16) * 4 * u * (1 - u); g.fillStyle = warm(0.95); g.beginPath(); g.arc(bx, by + 2, 2, 0, 7); g.fill(); } const mx = (xs(a) + xs(b)) / 2; g.strokeStyle = C.mix(0.7); g.lineWidth = 1; g.strokeRect(mx - s * 0.22, ground - s * 0.3, s * 0.44, s * 0.04); [-0.3, -0.12, 0.12, 0.3].forEach((d, j) => person(g, mx + d * s * 1.25, ground, s * (j % 2 ? 0.66 : 0.7), C.mix(0.85))); } }
+      if (m.room) { const [a, b] = m.room, on = Ls[a] > 0.9; if (on) { g.strokeStyle = C.mix(0.5); g.lineWidth = 0.8; g.beginPath(); g.moveTo(xs(a), head + 6); g.quadraticCurveTo((xs(a) + xs(b)) / 2, head + colH * 0.22, xs(b), head + 6); g.stroke(); for (let q = 1; q < 8; q++) { const u = q / 8, bx = xs(a) + (xs(b) - xs(a)) * u, by = head + 6 + (colH * 0.16) * 4 * u * (1 - u); g.fillStyle = warm(0.95); g.beginPath(); g.arc(bx, by + 2, 2, 0, 7); g.fill(); } sprite(g, "table", (xs(a) + xs(b)) / 2, ground + 2, colH); } }
       g.strokeStyle = C.mix(0.85); g.lineWidth = 1;
       g.beginPath(); g.moveTo(xs(0) - 4, head); g.lineTo(xs(N - 1) + 4, head); g.stroke();
       Ls.forEach((L, i) => { const x = xs(i); g.fillStyle = warm(0.12 + 0.85 * (L - 0.2) / 0.8 + 0.05); g.fillRect(x - 3, head, 6, colH); g.strokeRect(x - 3, head, 6, colH);
         g.font = font(C.xs, L > 0.95 ? 600 : 400); g.fillStyle = C.mix(L > 0.95 ? 0.95 : 0.5); g.textAlign = "center"; g.textBaseline = "bottom"; g.fillText(`${Math.round(L * 100)} %`, x, head - 5); });
       if (mode === 3 && Ls[4] > 0.9 && t > 1 && t < 10) { const x = xs(4); g.strokeStyle = warm(1); g.lineWidth = 1.5; [-0.9, -0.5, 0, 0.5, 0.9].forEach((a) => { g.beginPath(); g.moveTo(x + Math.sin(a) * 14, head - C.xs * 1.9 - Math.cos(a) * 4); g.lineTo(x + Math.sin(a) * 24, head - C.xs * 1.9 - Math.cos(a) * 14); g.stroke(); }); }
       g.strokeStyle = C.mix(0.55); g.lineWidth = 1; g.beginPath(); g.moveTo(padL, ground); g.lineTo(W - padR, ground); g.stroke();
-      if (mode === 2 && t < 19 && t >= 18.4) [0.35, 0.65].forEach((u) => person(g, xs(0) + (xs(1) - xs(0)) * u, ground, s * 0.7, C.mix(0.85)));
-      if (px !== null && px > -1 && px < 5) { const x = xs(0) + (xs(1) - xs(0)) * px; person(g, x, ground, s * 0.72, C.mix(0.9)); if (mode === 1) { g.fillStyle = C.mix(0.55); g.beginPath(); g.arc(x - s * 0.5, ground - s * 0.08, s * 0.07, 0, 7); g.fill(); g.strokeStyle = C.mix(0.55); g.beginPath(); g.moveTo(x - s * 0.12, ground - s * 0.6); g.lineTo(x - s * 0.46, ground - s * 0.1); g.stroke(); } }
+      if (mode === 2 && t < 19 && t >= 18.4) sprite(g, "wall", (xs(0) + xs(1)) / 2, ground + 2, colH);
+      if (px !== null && px > -1 && px < 5) { const x = xs(0) + (xs(1) - xs(0)) * px; sprite(g, ["walk", "phone", "walk", "sos"][mode], x, ground + 2, colH); }
+      if (mode === 1) { const dx = xs(0) + (xs(1) - xs(0)) * (-1.2 + (t / m.T) * 7.4); sprite(g, "dog", dx, ground + 2, colH); }
       // 상태 글
       g.font = font(C.xs); g.textAlign = "left"; g.textBaseline = "alphabetic"; g.fillStyle = C.mix(0.85);
       const hh = (h) => `${String(Math.floor(h)).padStart(2, "0")}:${String(Math.floor((h % 1) * 60)).padStart(2, "0")}`;
